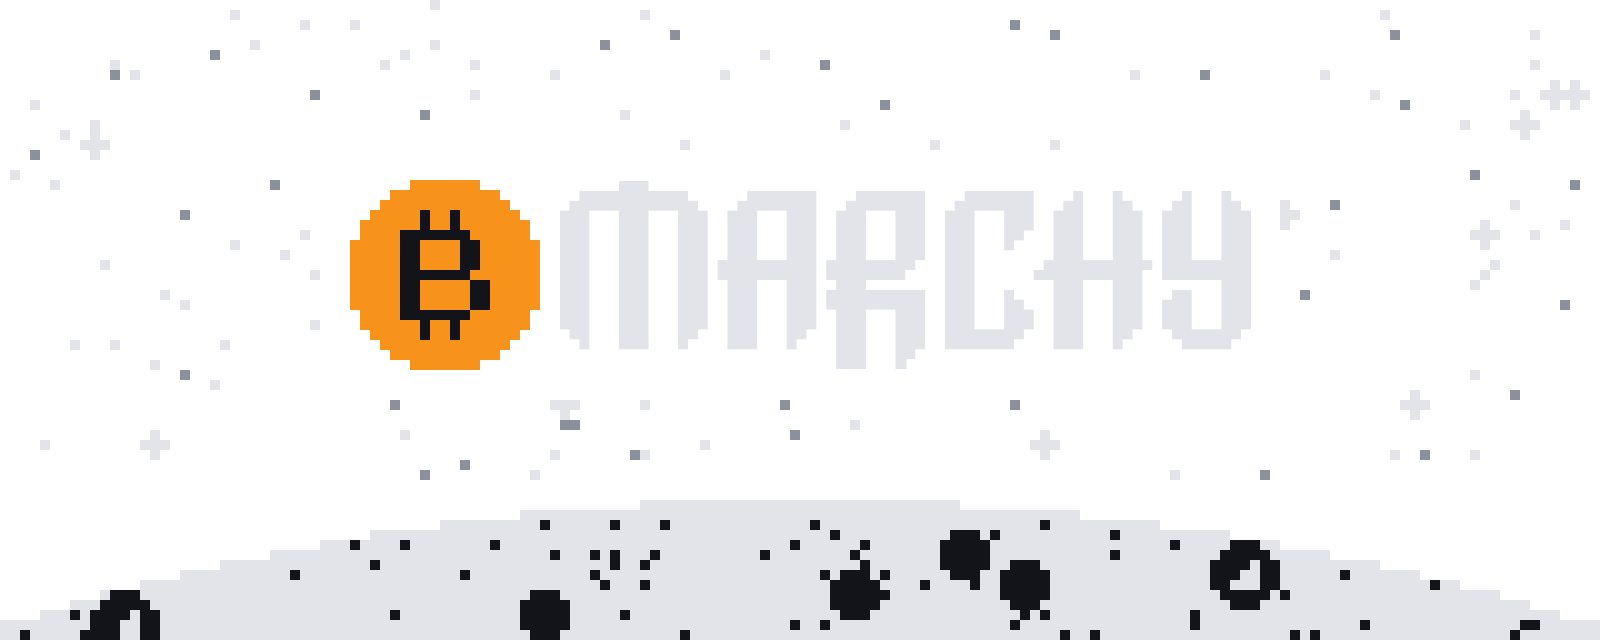
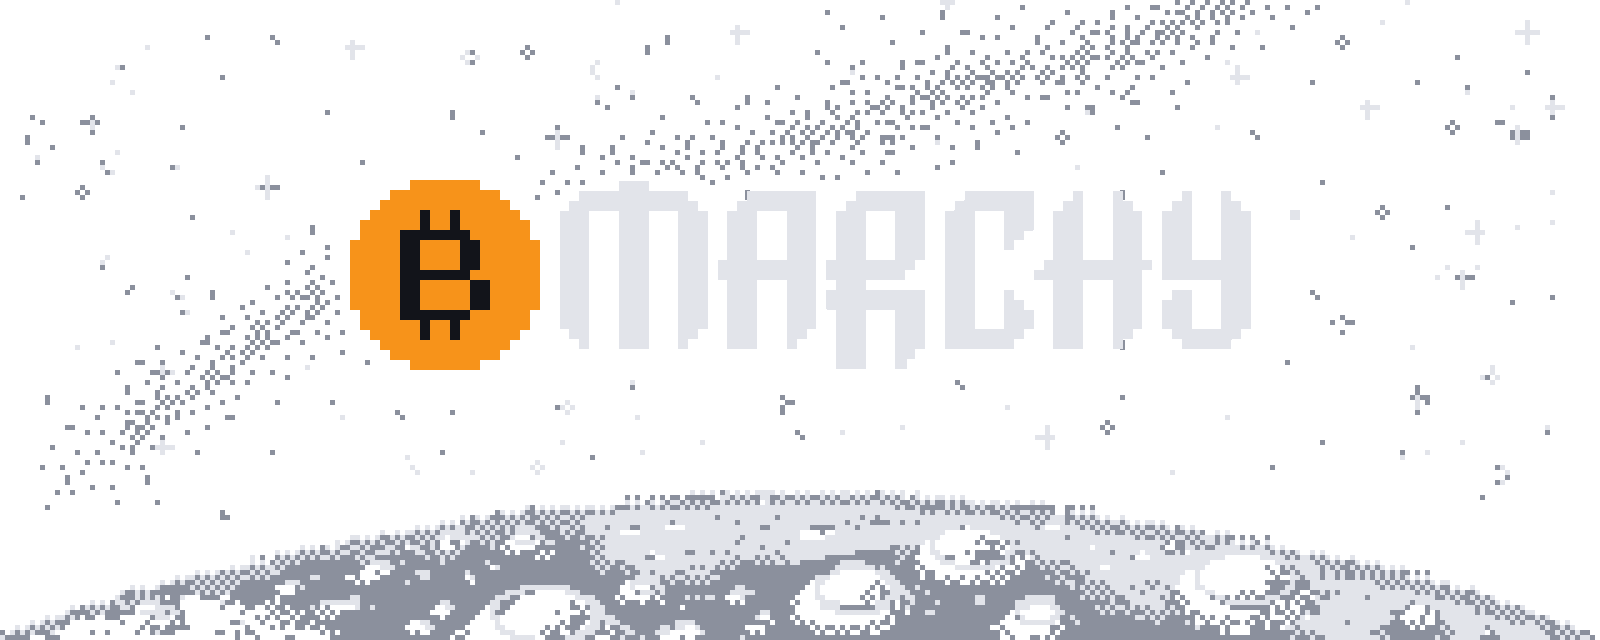
feat(splash): model-drawn pixel backdrop, hard-edged wordmark
Backdrop redrawn by gpt-5.4-image-2 from the previous splash as reference,
point-sampled onto a 5 px cell grid and quantised to the five theme colours
(splash-cells.png). Stars now cluster along a dithered Milky Way band and
fade toward the edges; the moon limb gets dither shading and crater rims.
Stock wordmark alpha is thresholded so no anti-aliased edge cells remain.

Claude-Session: https://claude.ai/code/session_01UT1S32i88jEjdjDRz892aP

diff --git a/make-splash.py b/make-splash.py
@@ -1,9 +1,12 @@
 #!/usr/bin/env python3
 """Build unlock.png: the stock OMARCHY pixel wordmark with its O swapped for a
-bitcoin coin, a sparse star field around it and a cratered moon limb along the
-bottom edge. Plymouth/SDDM put the password field 40 px under this image, so
-the limb reads as the horizon the field sits on. 10 px cells, like the stock
-logo. Needs ImageMagick and /usr/share/plymouth/themes/omarchy/logo.png.
+bitcoin coin, over a star field and a cratered moon limb along the bottom
+edge. Plymouth/SDDM put the password field 40 px under this image, so the limb
+reads as the horizon the field sits on. Wordmark cells are 10 px like the
+stock logo; the backdrop is drawn on 5 px cells. The backdrop ships as
+splash-cells.png (320x128, palette-quantised from an openai/gpt-5.4-image-2
+redraw via ppq.ai); without it a plainer procedural backdrop is generated.
+Needs ImageMagick and /usr/share/plymouth/themes/omarchy/logo.png.
 
     ./make-splash.py && omarchy plymouth preview '#12141a' '#e2e4ea' unlock.png preview-unlock.png
 """
@@ -73,9 +76,15 @@ pam(coin, f"{tmp}/coin.pam"); pam(bg, f"{tmp}/bg.pam")
 m = lambda *a: subprocess.run(["magick", *a], check=True)
 m(f"{tmp}/coin.pam", "-filter", "point", "-resize", f"{CELL*100}%", f"{tmp}/coin.png")
 m(f"{tmp}/bg.pam",   "-filter", "point", "-resize", f"{CELL*100}%", f"{tmp}/bg.png")
-m(STOCK, "-crop", "691x188+109+0", "+repage", "-fill", "#e2e4ea", "-colorize", "100", f"{tmp}/marchy.png")
+# the stock logo has anti-aliased edges; threshold alpha so every cell is hard
+m(STOCK, "-crop", "691x188+109+0", "+repage", "-fill", "#e2e4ea", "-colorize", "100",
+  "-channel", "A", "-threshold", "50%", "+channel", f"{tmp}/marchy.png")
 m("-size", "901x190", "xc:none", f"{tmp}/coin.png", "-geometry", "+0+0", "-composite",
   f"{tmp}/marchy.png", "-geometry", "+210+1", "-composite", f"{tmp}/wordmark.png")
+here = os.path.dirname(os.path.abspath(__file__))
+cells = os.path.join(here, "splash-cells.png")
+if os.path.exists(cells):
+    m(cells, "-filter", "point", "-resize", "500%", f"{tmp}/bg.png")
 m(f"{tmp}/bg.png", f"{tmp}/wordmark.png", "-geometry", f"+{BX*CELL}+{BY*CELL}", "-composite",
-  os.path.join(os.path.dirname(os.path.abspath(__file__)), "unlock.png"))
+  os.path.join(here, "unlock.png"))
 print("wrote unlock.png")

diff --git a/README.md b/README.md
@@ -37,9 +37,12 @@ added in ImageMagick. Bitcoin logo: public domain.
 ## Boot / login splash
 
 `unlock.png` is the Plymouth boot and SDDM login logo: the stock pixel-art
-OMARCHY wordmark in print white, its O replaced by a pixel bitcoin coin, a
-star field around it and a cratered moon limb along the bottom edge -- the
-password field sits right under that horizon. `make-splash.py` rebuilds it.
+OMARCHY wordmark in print white, its O replaced by a pixel bitcoin coin, over
+a dithered star field, a faint Milky Way band and a cratered moon limb along
+the bottom edge -- the password field sits right under that horizon. The
+backdrop was drawn by `openai/gpt-5.4-image-2` (via ppq.ai), then snapped to a
+5 px pixel grid and the theme's five colours (`splash-cells.png`);
+`make-splash.py` assembles it with the untouched stock wordmark.
 Apply with:
 
 ```bash
